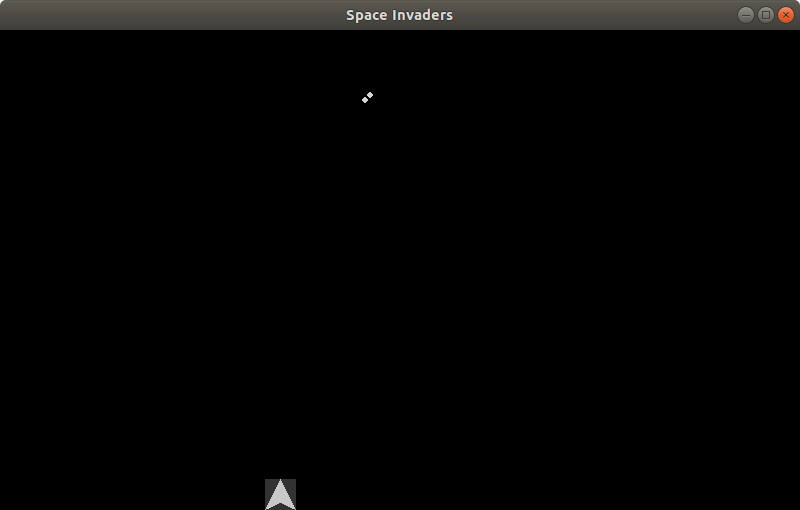
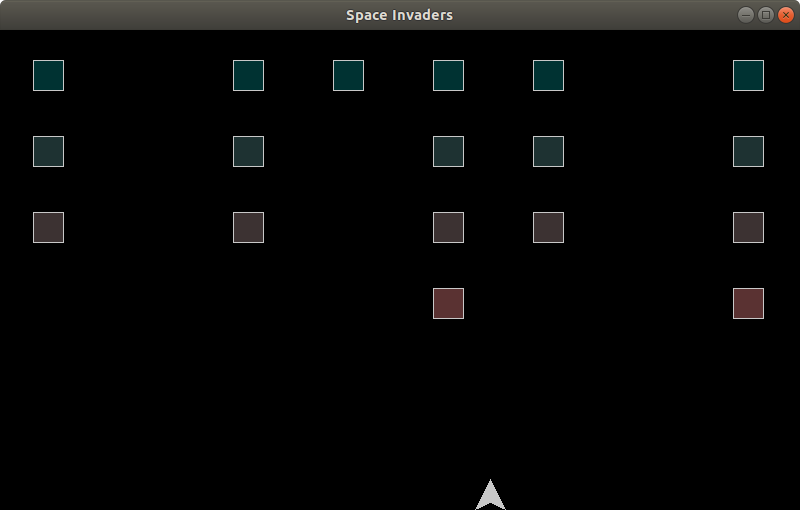
Minor updates

diff --git a/games/space_invaders.py b/games/space_invaders.py
@@ -48,10 +48,7 @@ class SpaceInvaders:
         self.lives = 3
         self.burst = set()
         self.ship.reset()
-        # Spawn monsters
-        for i in range(8):
-            monster = Monster(self.screen, (10 * i, i))
-            self.aliens.add(monster)
+        self.aliens_deploy()
 
     def run(self):
         # Draw Space
@@ -60,7 +57,8 @@ class SpaceInvaders:
         self.ship.update()
         self.burst_update()
         self.aliens_update()
-        # self.check_collision()
+        self.check_collision()
+        self.aliens_check()
         if not self.lives:
             self.reset()
         # Join everything
@@ -68,36 +66,13 @@ class SpaceInvaders:
         return False
 
     def check_collision(self):
-        for i in self.rock_group:
-            # Ship against rocks
-            if i.get_rect().colliderect(self.ship.get_rect()):
-                self.rock_group.remove(i)
-                self.lives -= 1
-                return
-            # Missile against rocks
+        # Missle againt alien
+        for i in self.aliens:
             for j in self.burst:
-                if j.get_rect().colliderect(i.get_rect()):
-                    self.rock_group.remove(i)
+                if i.get_rect().colliderect(j.get_rect()):
+                    self.aliens.remove(i)
                     self.burst.remove(j)
                     return
-            # Rock against rocks
-            for j in self.rock_group:
-                if j == i:
-                    continue
-                if j.get_rect().colliderect(i.get_rect()):
-                    i.upgrade(j.get_size())
-                    self.rock_group.remove(j)
-                    return
-
-    def rock_update(self):
-        # Need more?
-        while len(self.rock_group) < 8:
-            rock = Sprite(self.space)
-            if not rock.get_rect().colliderect(self.ship.get_double_rect()):
-                self.rock_group.add(rock)
-        # Update position
-        for i in self.rock_group:
-            i.update()
 
     def burst_update(self):
         # Update position
@@ -109,10 +84,27 @@ class SpaceInvaders:
                 self.burst.remove(i)
                 break
 
+    def aliens_deploy(self):
+        formation = (8, 5)
+        for y in range(formation[1]):
+            for x in range(formation[0]):
+                monster = Monster(self.space, y,
+                                  ((self.space.get_size()[0] /
+                                    formation[0]) * x +
+                                   (self.space.get_size()[0] /
+                                    formation[0]) / 3,
+                                   ((self.space.get_size()[1] - 100) /
+                                    formation[1]) * y + 30))
+                self.aliens.add(monster)
+
     def aliens_update(self):
         # Update position
         for i in self.aliens:
             i.update()
+
+    def aliens_check(self):
+        if len(self.aliens) == 0:
+            self.reset()
 
     def stop(self):
         pygame.event.clear()
@@ -152,7 +144,7 @@ class Ship:
         self.move_increment = 5
         self.reset()
         self.ship = pygame.Surface(self.ship_size, SRCALPHA)
-        self.ship.fill([50, 50, 50])  # FIXME: Remove after tests
+        # self.ship.fill([50, 50, 50])  # FIXME: Remove after tests
         pygame.draw.polygon(self.ship, (200, 200, 200),
                             [(0, 30), (15, 0), (30, 30), (15, 23)], 0)
         self.radius = self.ship.get_rect().center[0]
@@ -220,20 +212,18 @@ class Missile:
 
 
 class Monster:
-    def __init__(self, screen, position):
+    def __init__(self, screen, type, position):
         self.screen = screen
         self.screen_size = [self.screen.get_size()[0],
                             self.screen.get_size()[1]]
+        self.type = type
+        self.position = position
         self.size = [31, 31]
         self.shape = pygame.Surface(self.size, SRCALPHA)
-        self.shape.fill([50, 50, 50])  # FIXME: Remove after tests
+        self.shape.fill([30 * self.type, 50, 50])  # FIXME: Remove after tests
         pygame.draw.rect(self.shape, (200, 200, 200),
-                         (0, 0, self.size[0], self.size[1]), 20)
-        self.position = position
+                         (0, 0, self.size[0], self.size[1]), 1)
         self.update()
-
-    def type(self, type):
-        self.type = type
 
     def update(self):
         self.rect = self.shape.get_rect().move(self.position)
